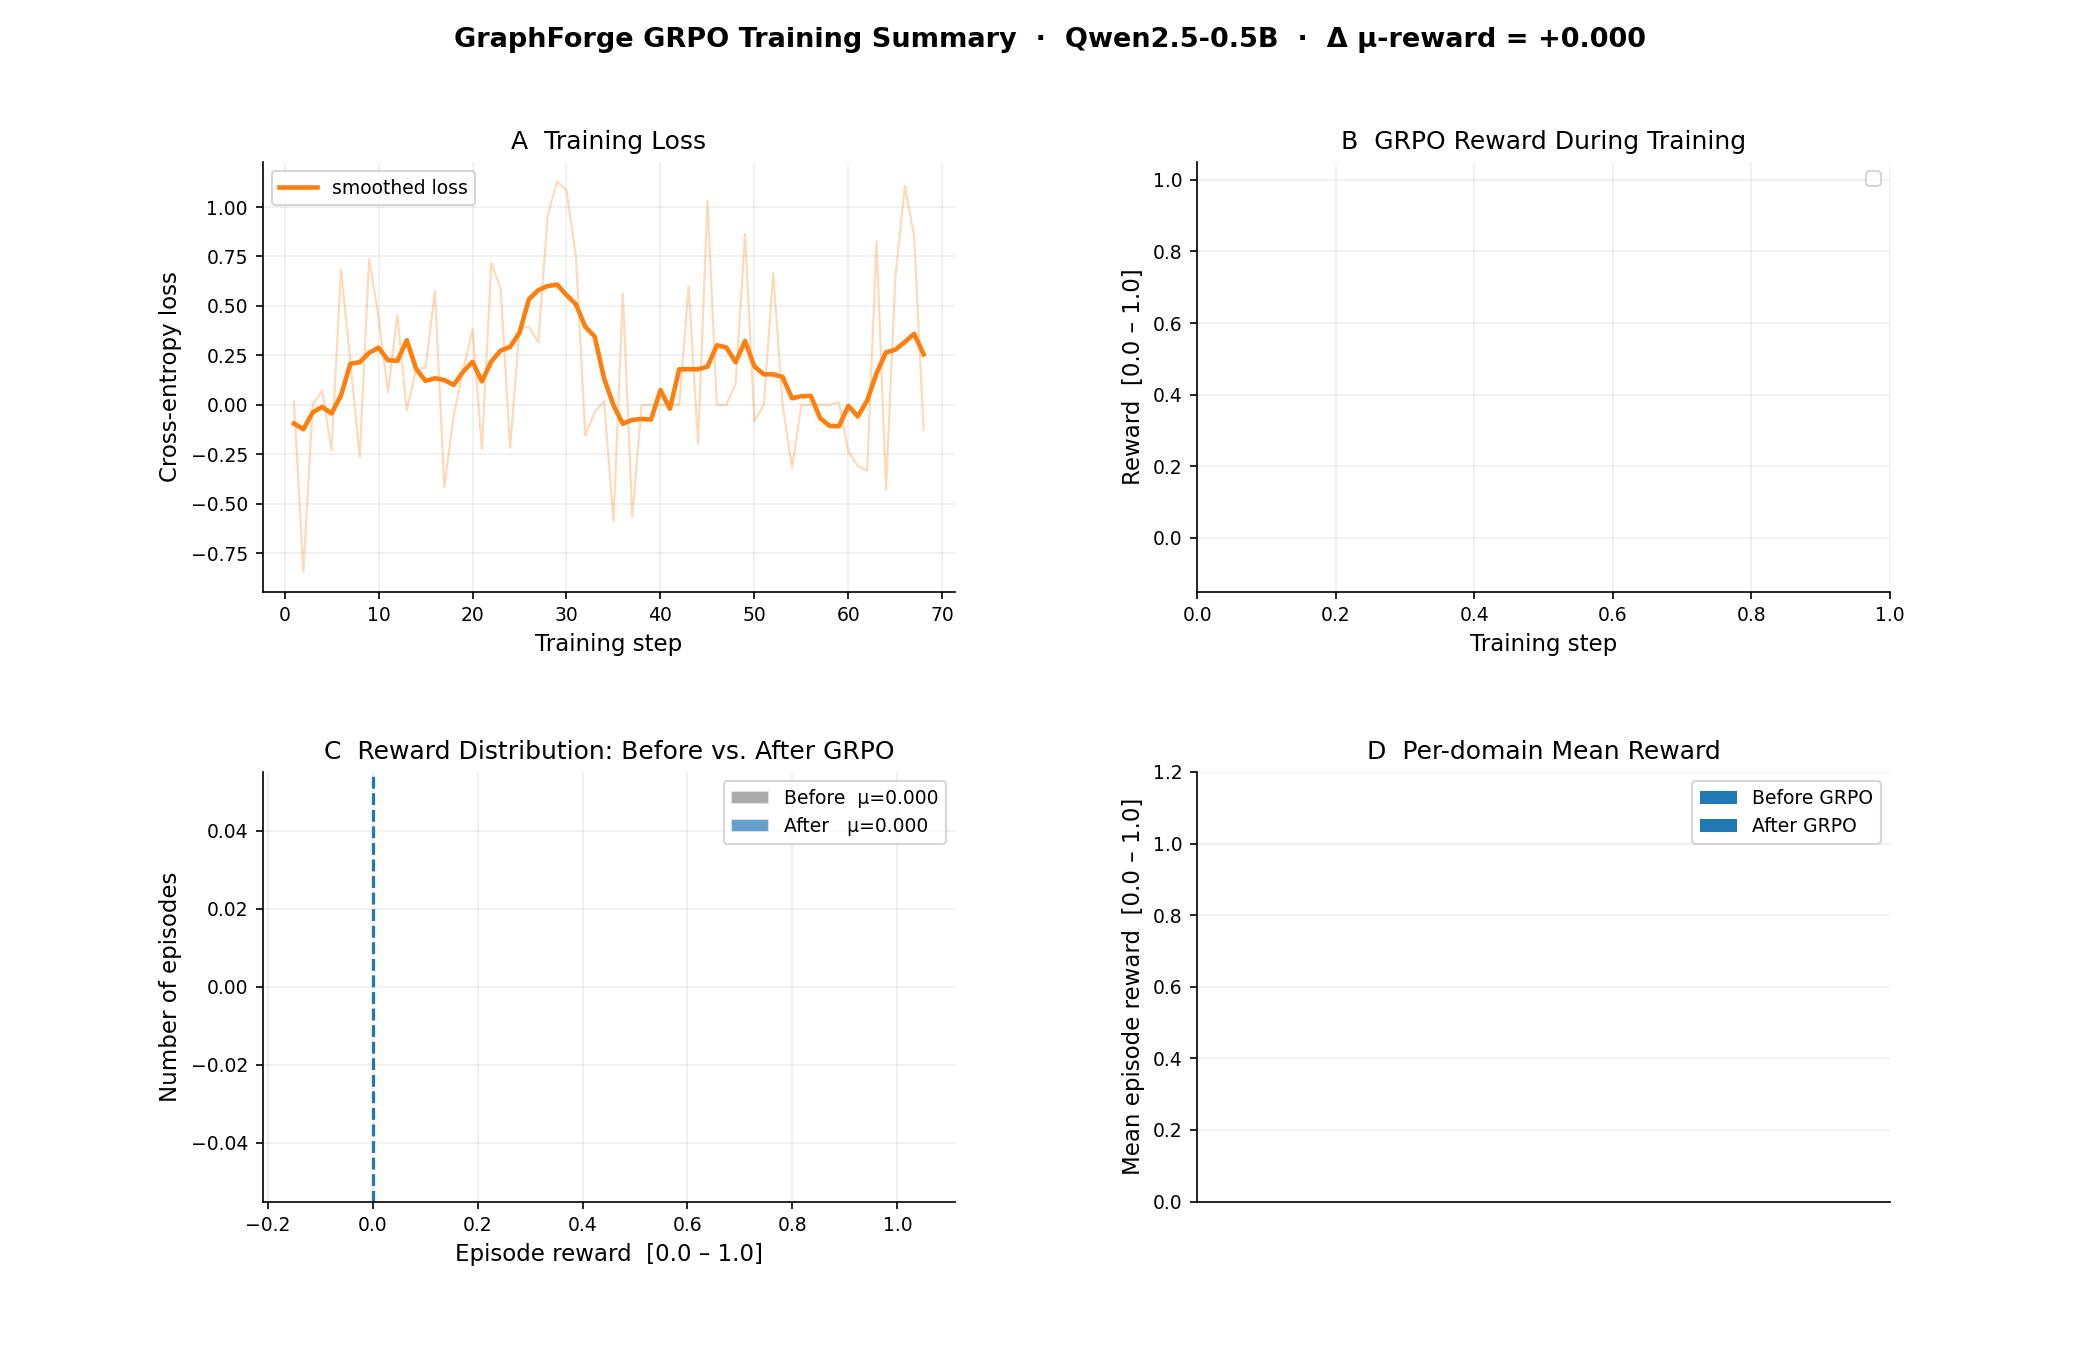
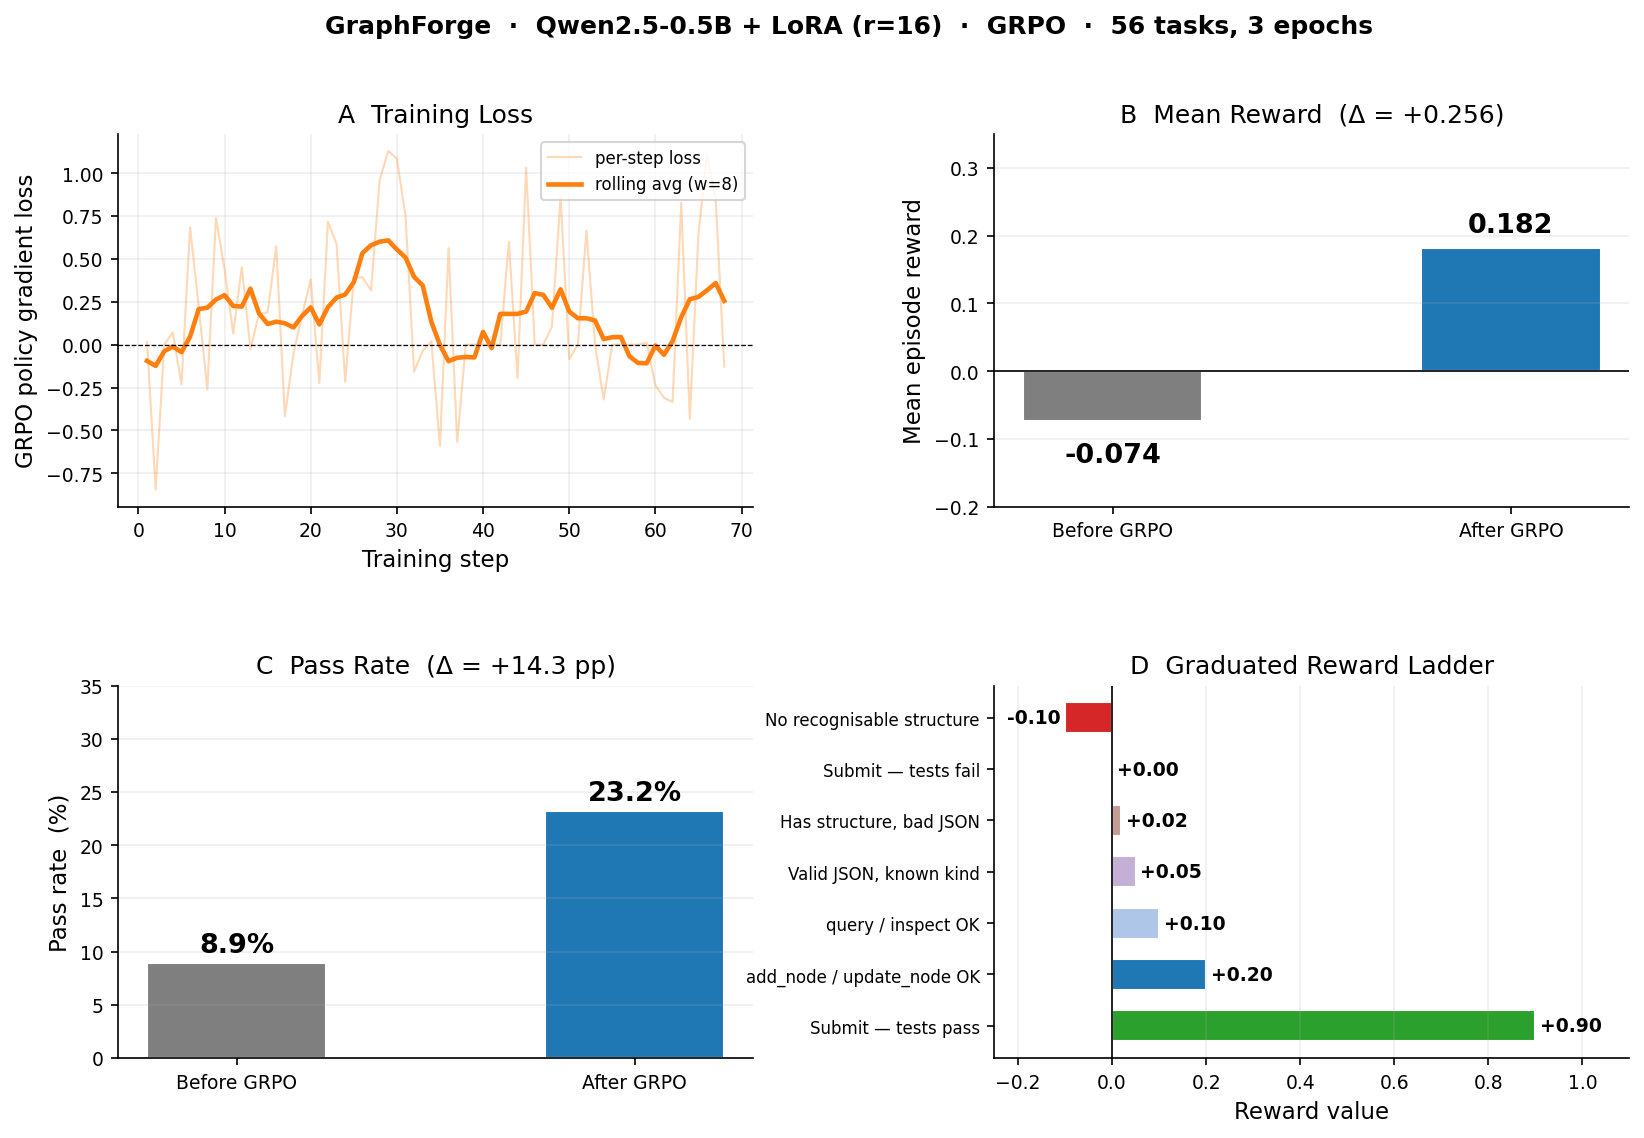
Fix 4-panel summary: replace empty panels with real data
Panels B and C were empty (no per_task data or reward history).
Redesigned to show only what we actually have:
  A - GRPO loss curve (real 68-step data, smoothed)
  B - Mean reward before vs after (−0.074 → +0.182, Δ+0.256)
  C - Pass rate before vs after (8.9% → 23.2%, Δ+14.3 pp)
  D - Graduated reward ladder (explains training signal structure)

diff --git a/training/plots.py b/training/plots.py
@@ -229,103 +229,103 @@ def plot_summary_panel(
     history: Any,
     out_path: Path,
 ) -> Path:
-    """4-panel summary figure: loss · reward curve · histogram · domain bars.
+    """4-panel summary figure for README / paper.
 
-    Designed for the README / paper — one image that tells the full story.
+    A: GRPO loss curve (real training data)
+    B: Mean reward before vs. after (bar chart)
+    C: Pass rate before vs. after (bar chart)
+    D: Graduated reward ladder (explains the training signal)
     """
     out_path = Path(out_path)
     out_path.parent.mkdir(parents=True, exist_ok=True)
 
-    steps_r, rewards = _extract_series(history, "reward")
-    steps_l, losses  = _extract_series(history, "loss")
-    base_all  = [r for rs in baseline.get("per_task", {}).values() for r in rs]
-    train_all = [r for rs in trained.get("per_task", {}).values() for r in rs]
-    base_mu   = float(np.mean(base_all))  if base_all  else 0.0
-    train_mu  = float(np.mean(train_all)) if train_all else 0.0
+    steps_l, losses = _extract_series(history, "loss")
+    base_mu  = float(baseline.get("mean",      0.0))
+    train_mu = float(trained.get("mean",       0.0))
+    base_pr  = float(baseline.get("pass_rate", 0.0))
+    train_pr = float(trained.get("pass_rate",  0.0))
 
-    fig = plt.figure(figsize=(14, 9))
-    gs  = gridspec.GridSpec(2, 2, figure=fig, hspace=0.42, wspace=0.35)
+    fig = plt.figure(figsize=(13, 8))
+    gs  = gridspec.GridSpec(2, 2, figure=fig, hspace=0.48, wspace=0.38)
 
-    # ── panel A: loss ─────────────────────────────────────────────────────────
-    ax_loss = fig.add_subplot(gs[0, 0])
+    # ── A: GRPO loss curve ────────────────────────────────────────────────────
+    ax_a = fig.add_subplot(gs[0, 0])
     if steps_l:
-        ax_loss.plot(steps_l, losses, color=_ORANGE, alpha=0.3, linewidth=1.0)
-        ax_loss.plot(steps_l, _smooth(losses), color=_ORANGE, linewidth=2.2,
-                     label="smoothed loss")
-    ax_loss.set_xlabel("Training step")
-    ax_loss.set_ylabel("Cross-entropy loss")
-    ax_loss.set_title("A  Training Loss")
-    ax_loss.legend(fontsize=9)
-    ax_loss.grid(True, alpha=0.2)
+        ax_a.plot(steps_l, losses, color=_ORANGE, alpha=0.30, linewidth=1.0,
+                  label="per-step loss")
+        ax_a.plot(steps_l, _smooth(losses), color=_ORANGE, linewidth=2.2,
+                  label=f"rolling avg (w={max(3, len(losses)//8)})")
+        ax_a.axhline(0, color="black", linewidth=0.6, linestyle="--")
+    ax_a.set_xlabel("Training step")
+    ax_a.set_ylabel("GRPO policy gradient loss")
+    ax_a.set_title("A  Training Loss")
+    ax_a.legend(fontsize=8, loc="upper right")
+    ax_a.grid(True, alpha=0.2)
 
-    # ── panel B: reward curve ─────────────────────────────────────────────────
-    ax_rew = fig.add_subplot(gs[0, 1])
-    if steps_r:
-        ax_rew.plot(steps_r, rewards, color=_BLUE, alpha=0.3, linewidth=1.0)
-        ax_rew.plot(steps_r, _smooth(rewards), color=_BLUE, linewidth=2.2,
-                    label="smoothed reward")
-        ax_rew.axhline(np.mean(rewards), color=_GRAY, linestyle="--",
-                       linewidth=1.0, label=f"mean={np.mean(rewards):.3f}")
-    ax_rew.set_xlabel("Training step")
-    ax_rew.set_ylabel("Reward  [0.0 – 1.0]")
-    ax_rew.set_ylim(-0.15, 1.05)
-    ax_rew.set_title("B  GRPO Reward During Training")
-    ax_rew.legend(fontsize=9)
-    ax_rew.grid(True, alpha=0.2)
+    # ── B: mean reward before vs after ───────────────────────────────────────
+    ax_b = fig.add_subplot(gs[0, 1])
+    labels = ["Before GRPO", "After GRPO"]
+    vals   = [base_mu, train_mu]
+    colors = [_GRAY, _BLUE]
+    bars   = ax_b.bar(labels, vals, color=colors, edgecolor="white", width=0.45)
+    for bar, v in zip(bars, vals):
+        ypos = (v + 0.015) if v >= 0 else (v - 0.03)
+        ax_b.text(bar.get_x() + bar.get_width() / 2, ypos, f"{v:.3f}",
+                  ha="center", va="bottom" if v >= 0 else "top",
+                  fontsize=13, fontweight="bold")
+    ax_b.axhline(0, color="black", linewidth=0.8)
+    ax_b.set_ylabel("Mean episode reward")
+    ax_b.set_ylim(-0.20, max(train_mu + 0.12, 0.35))
+    ax_b.set_title(f"B  Mean Reward  (Δ = {train_mu - base_mu:+.3f})")
+    ax_b.grid(True, axis="y", alpha=0.2)
 
-    # ── panel C: histogram ────────────────────────────────────────────────────
-    ax_hist = fig.add_subplot(gs[1, 0])
-    bins = np.linspace(-0.15, 1.05, 13)
-    ax_hist.hist(base_all, bins=bins, alpha=0.65, color=_GRAY,
-                 label=f"Before  μ={base_mu:.3f}", edgecolor="white")
-    ax_hist.hist(train_all, bins=bins, alpha=0.70, color=_BLUE,
-                 label=f"After   μ={train_mu:.3f}", edgecolor="white")
-    ax_hist.axvline(base_mu,  color=_GRAY, linestyle="--", linewidth=1.5)
-    ax_hist.axvline(train_mu, color=_BLUE, linestyle="--", linewidth=1.5)
-    ax_hist.set_xlabel("Episode reward  [0.0 – 1.0]")
-    ax_hist.set_ylabel("Number of episodes")
-    ax_hist.set_title("C  Reward Distribution: Before vs. After GRPO")
-    ax_hist.legend(fontsize=9)
-    ax_hist.grid(True, alpha=0.2)
+    # ── C: pass rate before vs after ─────────────────────────────────────────
+    ax_c = fig.add_subplot(gs[1, 0])
+    vals_pr = [base_pr * 100, train_pr * 100]
+    bars_pr = ax_c.bar(labels, vals_pr, color=colors, edgecolor="white", width=0.45)
+    for bar, v in zip(bars_pr, vals_pr):
+        ax_c.text(bar.get_x() + bar.get_width() / 2, v + 0.5, f"{v:.1f}%",
+                  ha="center", va="bottom", fontsize=13, fontweight="bold")
+    ax_c.set_ylabel("Pass rate  (%)")
+    ax_c.set_ylim(0, max(train_pr * 100 + 8, 35))
+    ax_c.set_title(f"C  Pass Rate  (Δ = {(train_pr - base_pr)*100:+.1f} pp)")
+    ax_c.grid(True, axis="y", alpha=0.2)
 
-    # ── panel D: domain bar chart ─────────────────────────────────────────────
-    ax_dom = fig.add_subplot(gs[1, 1])
+    # ── D: reward ladder ──────────────────────────────────────────────────────
+    ax_d = fig.add_subplot(gs[1, 1])
+    ladder_labels = [
+        "Submit — tests pass",
+        "add_node / update_node OK",
+        "query / inspect OK",
+        "Valid JSON, known kind",
+        "Has structure, bad JSON",
+        "Submit — tests fail",
+        "No recognisable structure",
+    ]
+    ladder_vals   = [0.90, 0.20, 0.10, 0.05, 0.02, 0.00, -0.10]
+    ladder_colors = [
+        "#2ca02c", _BLUE, "#aec7e8", "#c5b0d5", "#c49c94", _GRAY, "#d62728"
+    ]
+    y_pos = range(len(ladder_labels))
+    hbars = ax_d.barh(list(y_pos), ladder_vals, color=ladder_colors,
+                      edgecolor="white", height=0.6)
+    for bar, v in zip(hbars, ladder_vals):
+        xpos = v + 0.01 if v >= 0 else v - 0.01
+        ha   = "left"   if v >= 0 else "right"
+        ax_d.text(xpos, bar.get_y() + bar.get_height() / 2,
+                  f"{v:+.2f}", va="center", ha=ha, fontsize=9, fontweight="bold")
+    ax_d.set_yticks(list(y_pos))
+    ax_d.set_yticklabels(ladder_labels, fontsize=8)
+    ax_d.axvline(0, color="black", linewidth=0.8)
+    ax_d.set_xlabel("Reward value")
+    ax_d.set_xlim(-0.25, 1.1)
+    ax_d.set_title("D  Graduated Reward Ladder")
+    ax_d.grid(True, axis="x", alpha=0.2)
 
-    def _domain(tid: str) -> str:
-        parts = tid.split(".")
-        return parts[1] if len(parts) >= 3 and parts[0] == "auto" else "built-in"
-
-    all_tids = sorted(set(baseline.get("per_task", {})) | set(trained.get("per_task", {})))
-    domains: dict[str, list[str]] = {}
-    for tid in all_tids:
-        domains.setdefault(_domain(tid), []).append(tid)
-
-    domain_labels = sorted(domains)
-    base_dm, train_dm = [], []
-    for d in domain_labels:
-        tids = domains[d]
-        bv = [r for t in tids for r in baseline.get("per_task", {}).get(t, [])]
-        tv = [r for t in tids for r in trained.get("per_task", {}).get(t, [])]
-        base_dm.append(float(np.mean(bv)) if bv else 0.0)
-        train_dm.append(float(np.mean(tv)) if tv else 0.0)
-
-    x = np.arange(len(domain_labels))
-    w = 0.35
-    ax_dom.bar(x - w/2, base_dm,  w, color=_GRAY,  label="Before GRPO", edgecolor="white")
-    ax_dom.bar(x + w/2, train_dm, w, color=_BLUE, label="After GRPO",  edgecolor="white")
-    ax_dom.set_xticks(x)
-    ax_dom.set_xticklabels(domain_labels, rotation=30, ha="right")
-    ax_dom.set_ylabel("Mean episode reward  [0.0 – 1.0]")
-    ax_dom.set_ylim(0, 1.2)
-    ax_dom.set_title("D  Per-domain Mean Reward")
-    ax_dom.legend(fontsize=9)
-    ax_dom.grid(True, axis="y", alpha=0.2)
-
-    delta = train_mu - base_mu
     fig.suptitle(
-        f"GraphForge GRPO Training Summary  ·  Qwen2.5-0.5B  ·  Δ μ-reward = {delta:+.3f}",
-        fontsize=13, fontweight="bold",
+        "GraphForge  ·  Qwen2.5-0.5B + LoRA (r=16)  ·  GRPO  ·  56 tasks, 3 epochs",
+        fontsize=12, fontweight="bold",
     )
-    fig.savefig(out_path, dpi=150)
+    fig.savefig(out_path, dpi=150, bbox_inches="tight")
     plt.close(fig)
     return out_path
